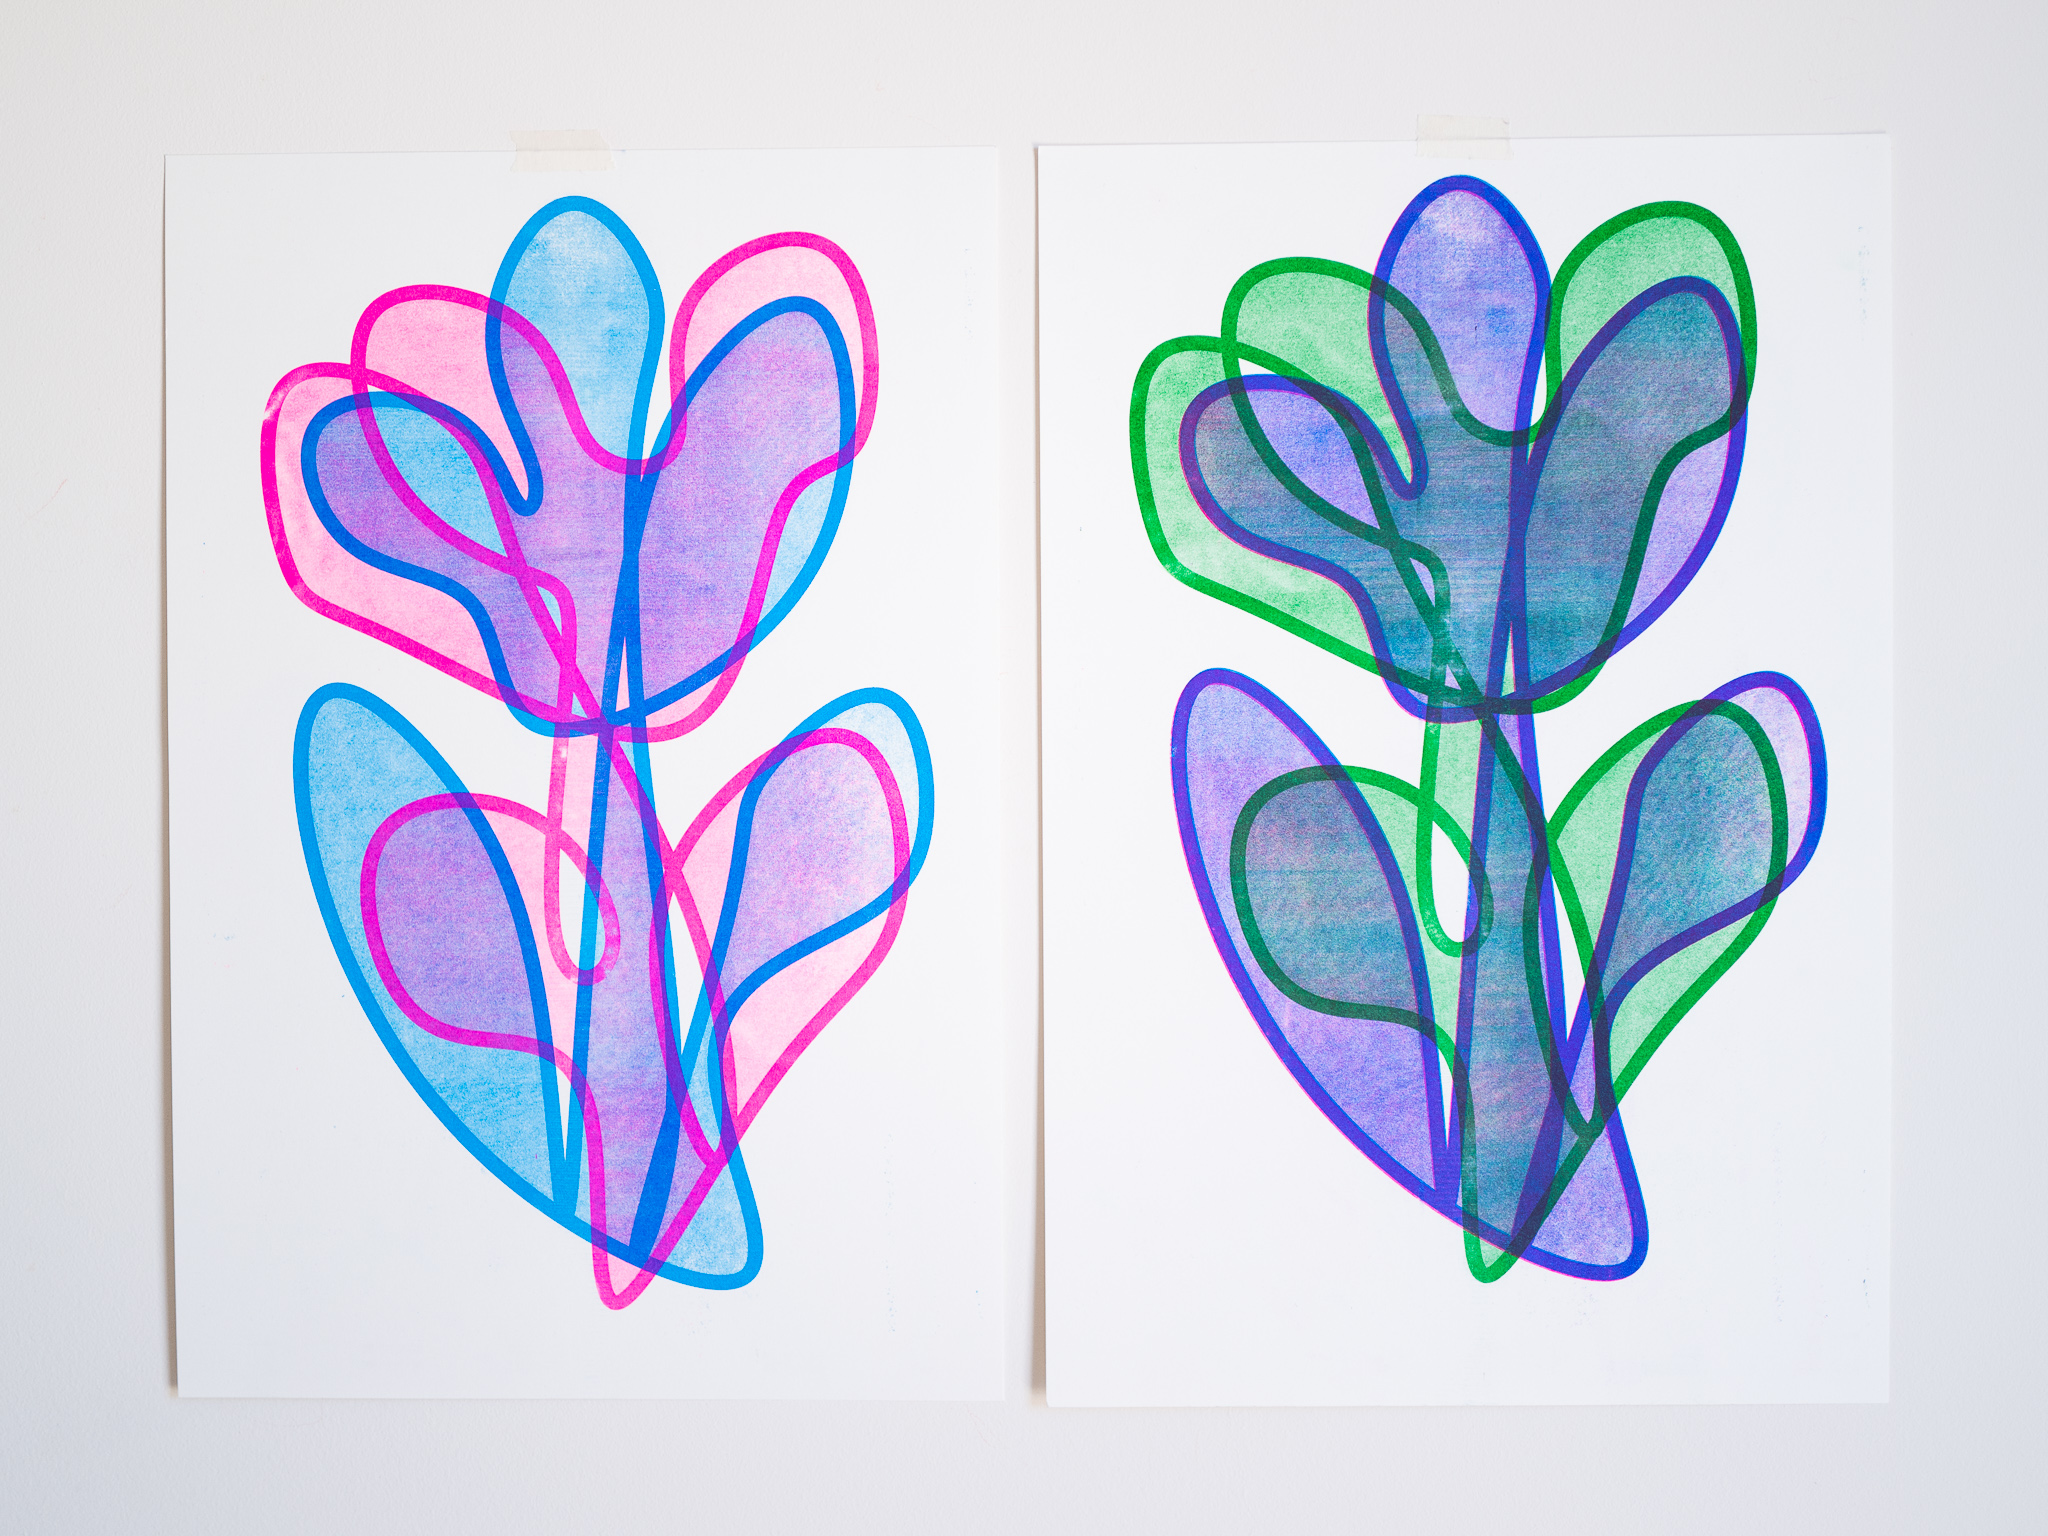
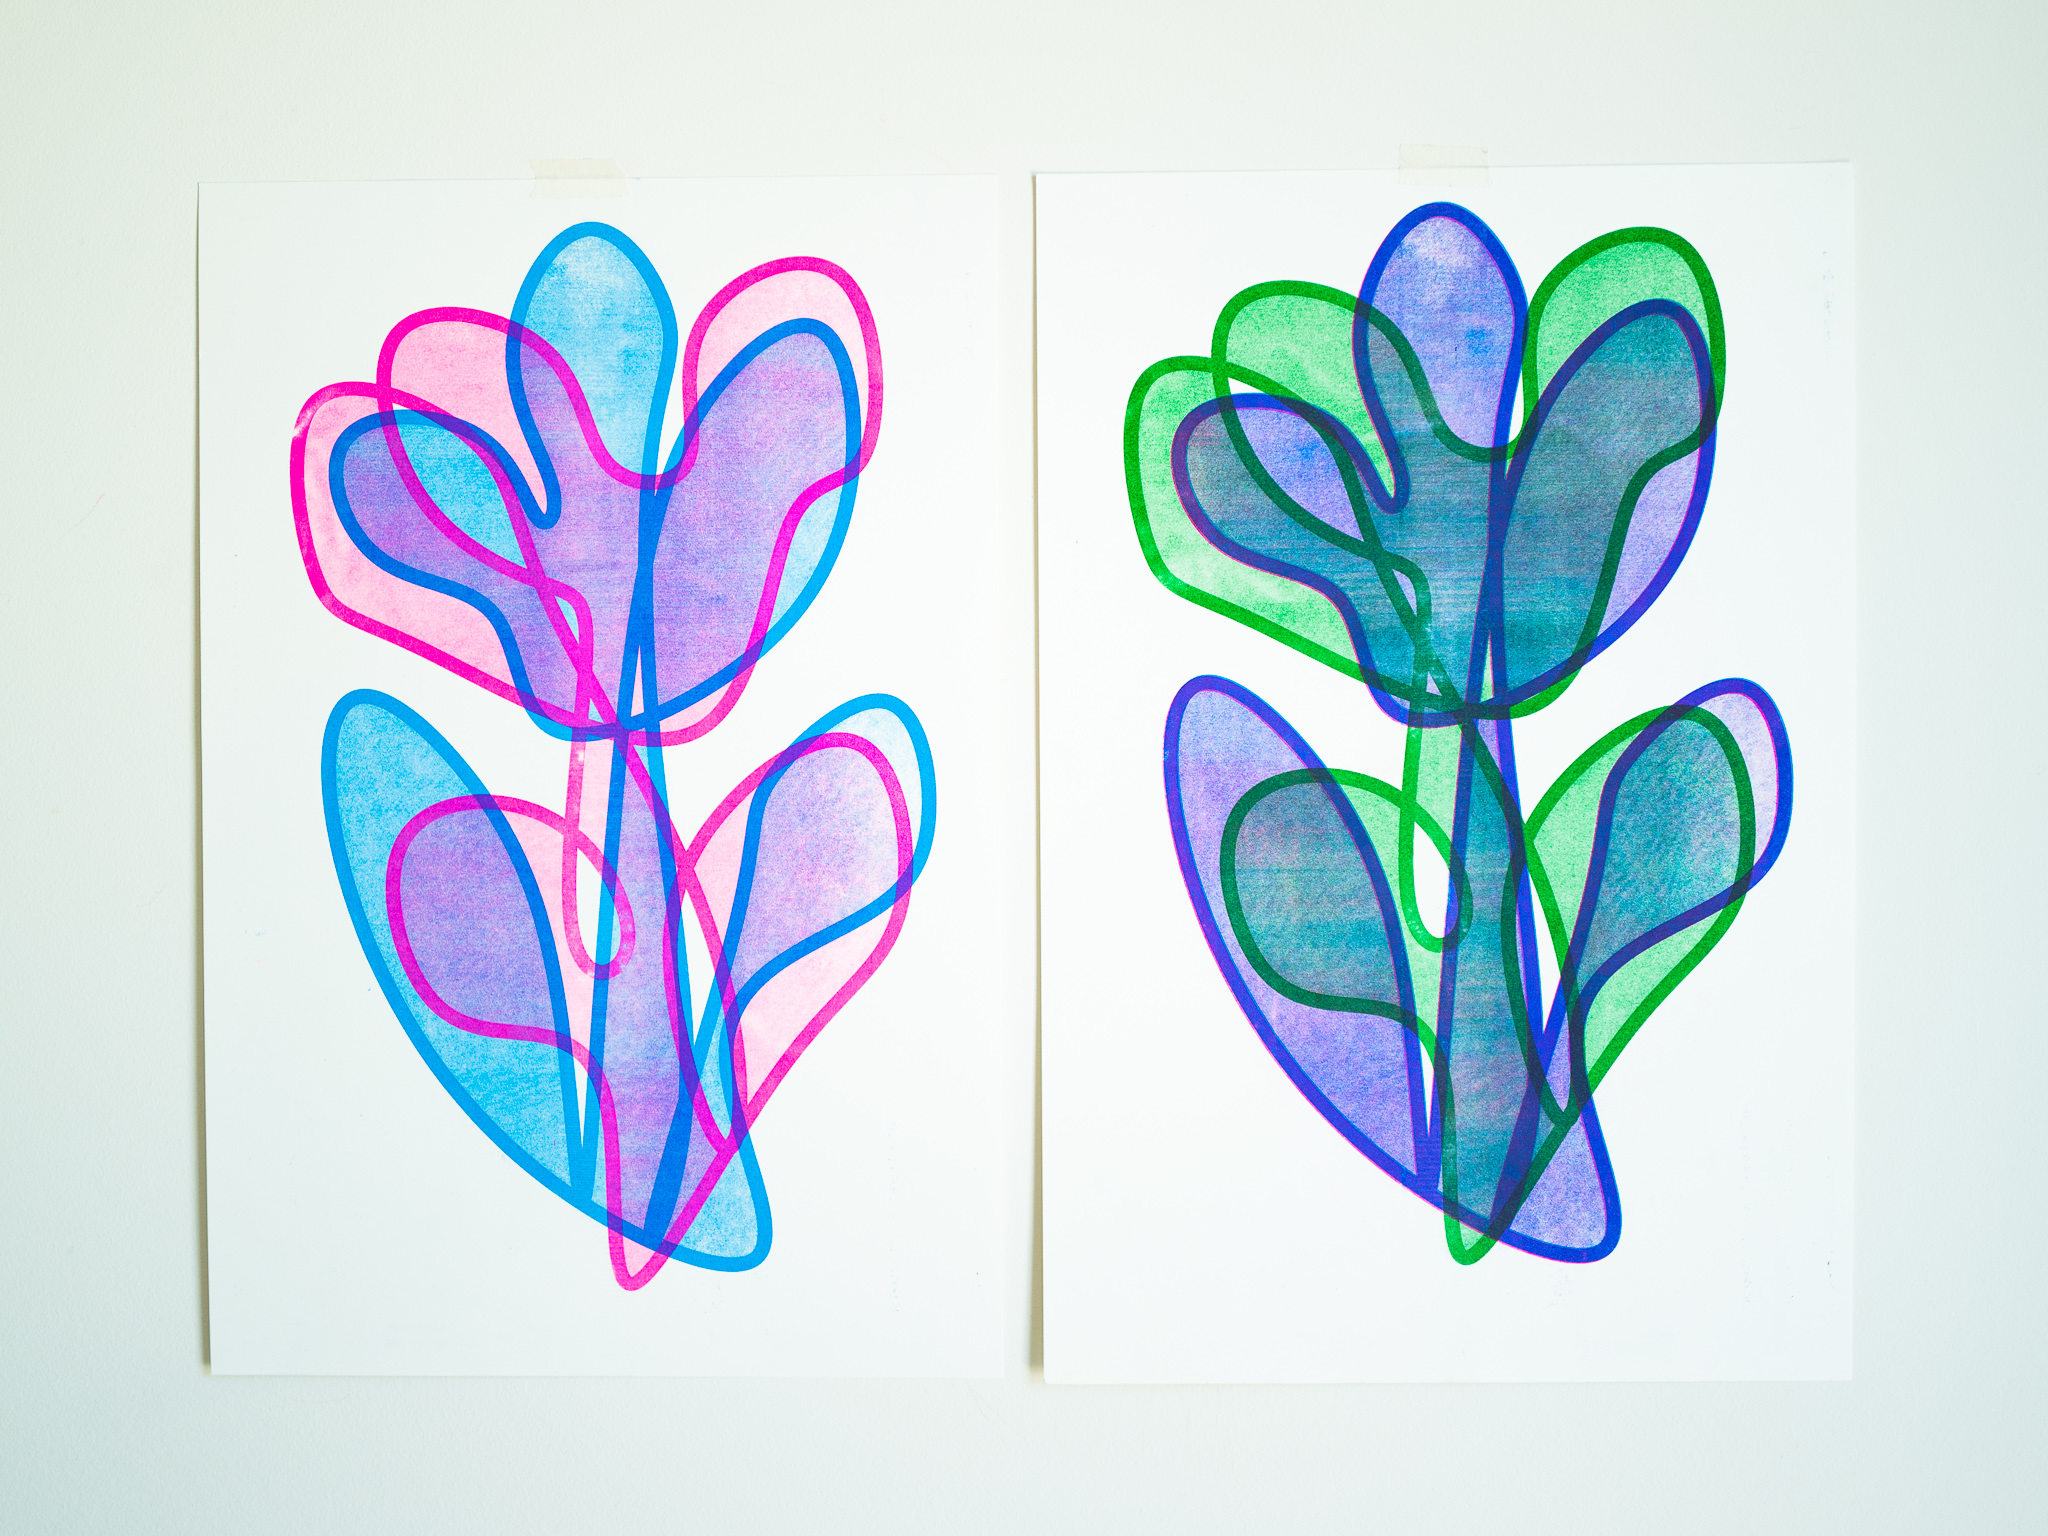
udpated leaf

diff --git a/src/projects/leaf.md b/src/projects/leaf.md
@@ -31,30 +31,17 @@ A series of leaf drawings made with a vector drawing tool I created with Paper.j
 
 <div class="row two">
   <img src="./../images/leaf/L1000307.jpg" />
-  <img src="./../images/leaf/DO01000925.jpeg" />
+  <img src="./../images/leaf/DO01000925-5.jpg" />
 </div>
 
-![Generative leaf drawing](./../images/leaf/DO01000853.jpg)
+![Generative leaf drawing](./../images/leaf/001-2.jpg)
 
-<div class="row two">
-  <img src="./../images/leaf/DO01000867.JPG" />
-  <img src="./../images/leaf/DO01000863.JPG" />
-</div>
+![Generative leaf drawing](./../images/leaf/002.JPG)
 
 <div class="text">
 Some of the risograph prints in tabloid size.
 </div>
 
-![Risograph prints](./../images/leaf/L1000063.jpg)
+![Risograph prints](./../images/leaf/L1000063-2.jpg)
 
-![Risograph prints](./../images/leaf/L1000070.jpg)
-
-<!-- <div class="row two">
-  <img src="./../images/leaf/L1010006-2.jpg" />
-  <img src="./../images/leaf/L1010002-2.jpg" />
-</div>
-
-<div class="row two">
-  <img src="./../images/leaf/L1000952-2.jpg" />
-  <img src="./../images/leaf/L1000941-2.jpg" />
-</div> -->
+![Risograph prints](./../images/leaf/L1000064-2.jpg)
